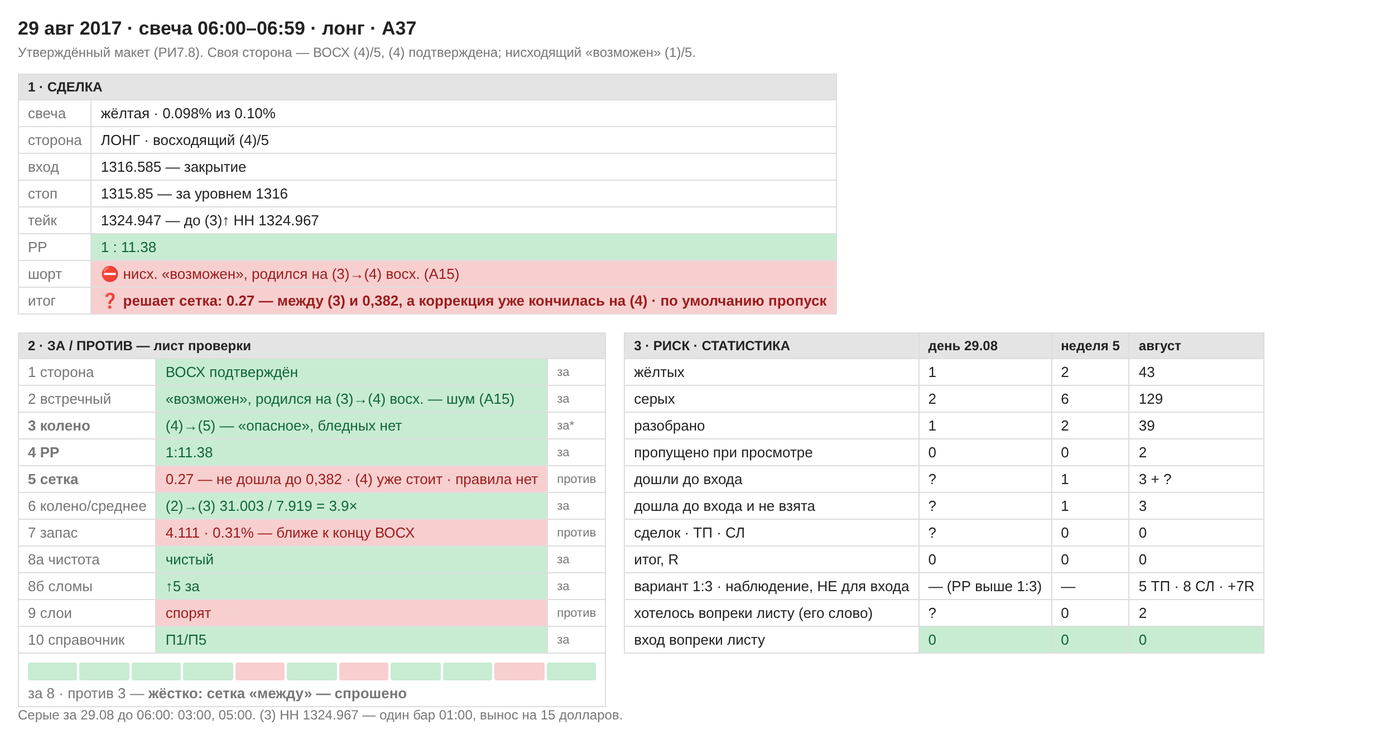
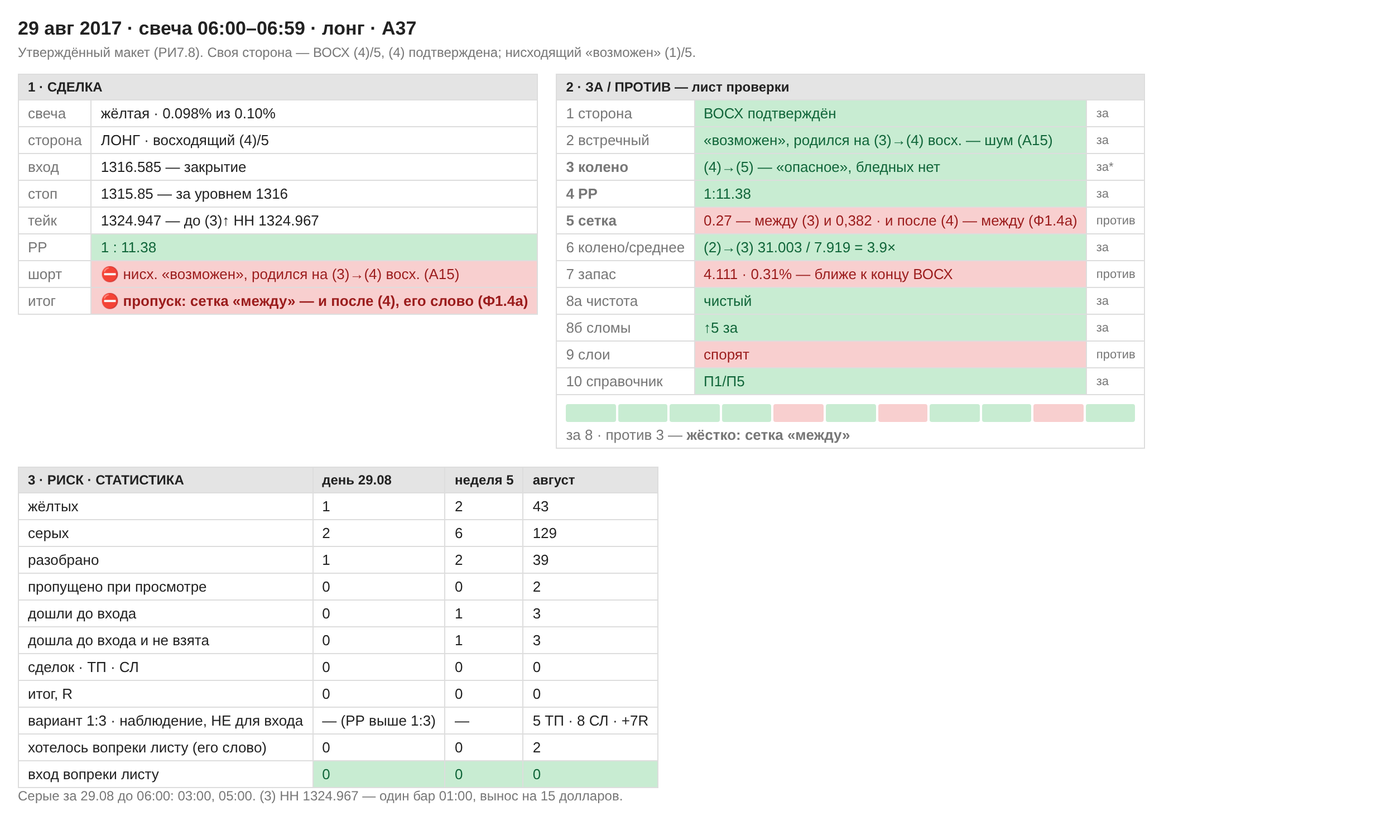
Ф1.4а: «между» действует и после конца коррекции, его слово; А37 пропуск, «хотелось» 0
Claude-Session: https://claude.ai/code/session_01TnuyYeu48W8E686G1zottP

diff --git a/research/out/maket/2017-08-29_0600.html b/research/out/maket/2017-08-29_0600.html
@@ -6,4 +6,4 @@ table{border-collapse:collapse;min-width:360px}td,th{border:1px solid var(--ln);
 th{background:var(--h);font-size:12px}.blk td:first-child{color:var(--mut);white-space:nowrap}
 .g{background:var(--g);color:var(--gt)}.r{background:var(--r);color:var(--rt)}.n{background:var(--n);color:var(--mut)}
 .hard{font-weight:bold}.tag{font-size:11px;color:var(--mut)}
-.bar{display:flex;gap:2px;margin:4px 0}.bar span{flex:1;height:16px;border-radius:2px}</style></head><body><h1>29 авг 2017 · свеча 06:00–06:59 · лонг · А37</h1><p class="sub">Утверждённый макет (РИ7.8). Своя сторона — ВОСХ (4)/5, (4) подтверждена; нисходящий «возможен» (1)/5.</p><div class="wrap"><table class="blk"><tr><th colspan="2">1 · СДЕЛКА</th></tr><tr><td>свеча</td><td class="">жёлтая · 0.098% из 0.10%</td></tr><tr><td>сторона</td><td class="">ЛОНГ · восходящий (4)/5</td></tr><tr><td>вход</td><td class="">1316.585 — закрытие</td></tr><tr><td>стоп</td><td class="">1315.85 — за уровнем 1316</td></tr><tr><td>тейк</td><td class="">1324.947 — до (3)↑ HH 1324.967</td></tr><tr><td>РР</td><td class="g">1 : 11.38</td></tr><tr><td>шорт</td><td class="r">⛔ нисх. «возможен», родился на (3)→(4) восх. (А15)</td></tr><tr><td>итог</td><td class="r hard">❓ решает сетка: 0.27 — между (3) и 0,382, а коррекция уже кончилась на (4) · по умолчанию пропуск</td></tr></table><table class="blk"><tr><th colspan="3">2 · ЗА / ПРОТИВ — лист проверки</th></tr><tr><td class="">1 сторона</td><td class="g">ВОСХ подтверждён</td><td class="tag">за</td></tr><tr><td class="">2 встречный</td><td class="g">«возможен», родился на (3)→(4) восх. — шум (А15)</td><td class="tag">за</td></tr><tr><td class="hard">3 колено</td><td class="g">(4)→(5) — «опасное», бледных нет</td><td class="tag">за*</td></tr><tr><td class="hard">4 РР</td><td class="g">1:11.38</td><td class="tag">за</td></tr><tr><td class="hard">5 сетка</td><td class="r">0.27 — не дошла до 0,382 · (4) уже стоит · правила нет</td><td class="tag">против</td></tr><tr><td class="">6 колено/среднее</td><td class="g">(2)→(3) 31.003 / 7.919 = 3.9×</td><td class="tag">за</td></tr><tr><td class="">7 запас</td><td class="r">4.111 · 0.31% — ближе к концу ВОСХ</td><td class="tag">против</td></tr><tr><td class="">8а чистота</td><td class="g">чистый</td><td class="tag">за</td></tr><tr><td class="">8б сломы</td><td class="g">↑5 за</td><td class="tag">за</td></tr><tr><td class="">9 слои</td><td class="r">спорят</td><td class="tag">против</td></tr><tr><td class="">10 справочник</td><td class="g">П1/П5</td><td class="tag">за</td></tr><tr><td colspan="3"><div class="bar"><span class="g"></span><span class="g"></span><span class="g"></span><span class="g"></span><span class="r"></span><span class="g"></span><span class="r"></span><span class="g"></span><span class="g"></span><span class="r"></span><span class="g"></span></div>за 8 · против 3 — <b>жёстко: сетка «между» — спрошено</b></td></tr></table><table><tr><th>3 · РИСК · СТАТИСТИКА</th><th>день 29.08</th><th>неделя 5</th><th>август</th></tr><tr><td>жёлтых</td><td class="">1</td><td class="">2</td><td class="">43</td></tr><tr><td>серых</td><td class="">2</td><td class="">6</td><td class="">129</td></tr><tr><td>разобрано</td><td class="">1</td><td class="">2</td><td class="">39</td></tr><tr><td>пропущено при просмотре</td><td class="">0</td><td class="">0</td><td class="">2</td></tr><tr><td>дошли до входа</td><td class="">?</td><td class="">1</td><td class="">3 + ?</td></tr><tr><td>дошла до входа и не взята</td><td class="">?</td><td class="">1</td><td class="">3</td></tr><tr><td>сделок · ТП · СЛ</td><td class="">?</td><td class="">0</td><td class="">0</td></tr><tr><td>итог, R</td><td class="">0</td><td class="">0</td><td class="">0</td></tr><tr><td>вариант 1:3 · наблюдение, НЕ для входа</td><td class="">— (РР выше 1:3)</td><td class="">—</td><td class="">5 ТП · 8 СЛ · +7R</td></tr><tr><td>хотелось вопреки листу (его слово)</td><td class="">?</td><td class="">0</td><td class="">2</td></tr><tr><td>вход вопреки листу</td><td class="g">0</td><td class="g">0</td><td class="g">0</td></tr></table></div><p class="sub">Серые за 29.08 до 06:00: 03:00, 05:00. (3) HH 1324.967 — один бар 01:00, вынос на 15 долларов.</p></body></html>
+.bar{display:flex;gap:2px;margin:4px 0}.bar span{flex:1;height:16px;border-radius:2px}</style></head><body><h1>29 авг 2017 · свеча 06:00–06:59 · лонг · А37</h1><p class="sub">Утверждённый макет (РИ7.8). Своя сторона — ВОСХ (4)/5, (4) подтверждена; нисходящий «возможен» (1)/5.</p><div class="wrap"><table class="blk"><tr><th colspan="2">1 · СДЕЛКА</th></tr><tr><td>свеча</td><td class="">жёлтая · 0.098% из 0.10%</td></tr><tr><td>сторона</td><td class="">ЛОНГ · восходящий (4)/5</td></tr><tr><td>вход</td><td class="">1316.585 — закрытие</td></tr><tr><td>стоп</td><td class="">1315.85 — за уровнем 1316</td></tr><tr><td>тейк</td><td class="">1324.947 — до (3)↑ HH 1324.967</td></tr><tr><td>РР</td><td class="g">1 : 11.38</td></tr><tr><td>шорт</td><td class="r">⛔ нисх. «возможен», родился на (3)→(4) восх. (А15)</td></tr><tr><td>итог</td><td class="r hard">⛔ пропуск: сетка «между» — и после (4), его слово (Ф1.4а)</td></tr></table><table class="blk"><tr><th colspan="3">2 · ЗА / ПРОТИВ — лист проверки</th></tr><tr><td class="">1 сторона</td><td class="g">ВОСХ подтверждён</td><td class="tag">за</td></tr><tr><td class="">2 встречный</td><td class="g">«возможен», родился на (3)→(4) восх. — шум (А15)</td><td class="tag">за</td></tr><tr><td class="hard">3 колено</td><td class="g">(4)→(5) — «опасное», бледных нет</td><td class="tag">за*</td></tr><tr><td class="hard">4 РР</td><td class="g">1:11.38</td><td class="tag">за</td></tr><tr><td class="hard">5 сетка</td><td class="r">0.27 — между (3) и 0,382 · и после (4) — между (Ф1.4а)</td><td class="tag">против</td></tr><tr><td class="">6 колено/среднее</td><td class="g">(2)→(3) 31.003 / 7.919 = 3.9×</td><td class="tag">за</td></tr><tr><td class="">7 запас</td><td class="r">4.111 · 0.31% — ближе к концу ВОСХ</td><td class="tag">против</td></tr><tr><td class="">8а чистота</td><td class="g">чистый</td><td class="tag">за</td></tr><tr><td class="">8б сломы</td><td class="g">↑5 за</td><td class="tag">за</td></tr><tr><td class="">9 слои</td><td class="r">спорят</td><td class="tag">против</td></tr><tr><td class="">10 справочник</td><td class="g">П1/П5</td><td class="tag">за</td></tr><tr><td colspan="3"><div class="bar"><span class="g"></span><span class="g"></span><span class="g"></span><span class="g"></span><span class="r"></span><span class="g"></span><span class="r"></span><span class="g"></span><span class="g"></span><span class="r"></span><span class="g"></span></div>за 8 · против 3 — <b>жёстко: сетка «между»</b></td></tr></table><table><tr><th>3 · РИСК · СТАТИСТИКА</th><th>день 29.08</th><th>неделя 5</th><th>август</th></tr><tr><td>жёлтых</td><td class="">1</td><td class="">2</td><td class="">43</td></tr><tr><td>серых</td><td class="">2</td><td class="">6</td><td class="">129</td></tr><tr><td>разобрано</td><td class="">1</td><td class="">2</td><td class="">39</td></tr><tr><td>пропущено при просмотре</td><td class="">0</td><td class="">0</td><td class="">2</td></tr><tr><td>дошли до входа</td><td class="">0</td><td class="">1</td><td class="">3</td></tr><tr><td>дошла до входа и не взята</td><td class="">0</td><td class="">1</td><td class="">3</td></tr><tr><td>сделок · ТП · СЛ</td><td class="">0</td><td class="">0</td><td class="">0</td></tr><tr><td>итог, R</td><td class="">0</td><td class="">0</td><td class="">0</td></tr><tr><td>вариант 1:3 · наблюдение, НЕ для входа</td><td class="">— (РР выше 1:3)</td><td class="">—</td><td class="">5 ТП · 8 СЛ · +7R</td></tr><tr><td>хотелось вопреки листу (его слово)</td><td class="">0</td><td class="">0</td><td class="">2</td></tr><tr><td>вход вопреки листу</td><td class="g">0</td><td class="g">0</td><td class="g">0</td></tr></table></div><p class="sub">Серые за 29.08 до 06:00: 03:00, 05:00. (3) HH 1324.967 — один бар 01:00, вынос на 15 долларов.</p></body></html>

diff --git a/indicator/ПРАВИЛА-ФИБО.md b/indicator/ПРАВИЛА-ФИБО.md
@@ -66,6 +66,7 @@
 | **Ф1.2** | На какой вопрос она отвечает, которого не отвечают счёт и уровень? | 🟡 **07.11.2026, его слово:** «правильная коррекция тренда». Счёт говорит, сколько колен прошло, уровень — чем тренд рубится, а сетка — **нормальной ли глубины откат**. Отсюда и его единственное чёткое правило: за 0,79 коррекция перестаёт быть правильной, и наблюдение снимается |
 | **Ф1.3** | Он сам сказал: **«нет ещё чёткого понимания, как правильно это использовать»** | ⚠ **ЭТО ТОТ ЖЕ ВОПРОС, ЧТО ТС4.2 у свечи.** Записано, чтобы не повторить К5 СЛОМ: механику опишем, а «зачем» всплывёт в конце |
 | **Ф1.4** | ⭐ **ПЕРВОЕ ПРАВИЛО ИСПОЛЬЗОВАНИЯ: «ТРИГГЕРНАЯ СВЕЧА НЕ ДОЛЖНА БЫТЬ В ПОДВЕШЕННОМ СОСТОЯНИИ».** Его слово 11.11.2026, запись А7: «в таблице Фибоначчи пробиты все уровни осталась только зона а тригерная свеча не должна быть в подвещеном состоянии» | ✅ **ЗАКРЫТО 11.11.2026 ЕГО СЛОВОМ: «да, на линии или в зоне, между нельзя».** ❓ Что значит «на линии» для свечи (задевает тенью, телом, закрытием) — не спрашивал, понадобится при внесении. ⚠ **11.11, А9: вопрос встал на живом случае.** Свечи 07:00 и 08:00 3 августа задевают 0,382 (1262.627) тенью, а он говорит «пробит уровень»; до этого вершина (2) 1264.35 уже прошла 0,382. Спрошено, что именно пробито. ✅ **Ответ: «закрытие свечи ушло за линию»** — пробой меряется закрытием, тень линию не пробивает. ⚠ Но 07:00 закрылась под 0,382, а 08:00 над — по разные стороны, а пробитыми названы обе. ❓ Моё прочтение, при котором сходятся обе: линия пробита, если закрытие хоть одной свечи этой коррекции уже уходило за неё (0,382 переходили пять закрытий до его свечей, 0,5 — ни одно). Спрошено. Ниже — как было записано до ответа. 🟡 **НАЗВАНО ЕГО СЛОВОМ, ТОЧНОЕ ЗНАЧЕНИЕ СПРОШЕНО.** Табло в тот момент: `цена в сетке 0.631 · 0.618 … 0.75` — три линии пройдены, до зоны не дошла. Довод ПРОТИВ входа, сделка пропущена при РР 1:7.6. ❓ **Моё прочтение — свеча должна стоять на линии или в зоне, а не между**; слова «опираться» у него нет. Он не назвал ГЛАВНЫЙ уровень (Ф3.3 открыт), но впервые назвал, где свеча стоять НЕ должна. Связь — ТС8.9 |
+| **Ф1.4а** | **«МЕЖДУ» ДЕЙСТВУЕТ И ПОСЛЕ ТОГО, КАК КОРРЕКЦИЯ КОНЧИЛАСЬ.** Его слово 19.11.2026, А37: «да, это между, пропуск» | ✅ **ЗАКРЫТО ЕГО СЛОВОМ.** Когда точка коррекции уже подтверждена (например (4) стоит, сетка `(2)→(3)` ещё висит до (5) по Ф5.1), а цена между вершиной колена и 0,382 — это «между», вход не берётся. Случай: 29 авг 06:00, (4) 1314.057 выше 0,382, свеча на 0.27, РР 1:11.38 — пропуск. Так же я читал А28 и А29 до его слова |
 | **Ф1.5** | ⭐ **ЛИНИЯ ПРОБИТА, ЕСЛИ ЗАКРЫТИЕ УЖЕ УХОДИЛО ЗА НЕЁ — И ОСТАЁТСЯ ПРОБИТОЙ.** Его слово 11.11.2026, запись А9: «да, линия пробита если закрытие уже уходило за неё» и «свеча у 0,5 в этой коррекции ещё считалась бы» | ✅ **ЗАКРЫТО ЕГО СЛОВОМ.** Пробой меряется **закрытием**, тень не пробивает. Меряется **по всей коррекции, а не по одной свече**: если любое закрытие с вершины счёта ушло за линию — линия больше не годится, свеча «на ней» уже не стоит. Каждая линия — **сама по себе**: в случае А9 0,382 пробита пятью закрытиями, а 0,5 цела, и свеча у 0,5 ещё считалась бы. **Чем кончается:** новая сетка на следующей нечётной цифре (Ф5.1) — это новые линии на новых ценах, пробой старых на них не переносится; это по построению, не его слово. Связь — Ф1.4, ТС8.9 |
 
 ---

diff --git a/indicator/ТАБЛО-НА-СВЕЧЕ.md b/indicator/ТАБЛО-НА-СВЕЧЕ.md
@@ -49,7 +49,7 @@
 | 25 авг 05:00 | А34 | скрин | **ВОСХ** / **НИСХ** | (3) / (2) | ↑ чистый, ↓2 ПРОТИВ · ↓ чистый, ↓2 за | спорят | ↓ 0.16% (ближе к концу) | 5.368 / 6.303 (данные) | у ВОСХ колено мелкое (порог 1) | шорт 1:1.78 | пропуск: шорт — РР; лонг — коррекция | шорт — **стоп** в 08:00 (и 1:3 тоже) |
 | 25 авг 12:00 | А35 | скрин | **ВОСХ** / **НИСХ** | (4)·**(5) предв.** / (3)·(4) предв. | ↑ чистый, ↑1 за · ↓ чистый, ↑1 ПРОТИВ | спорят | ↓ 0.03% (ближе к концу) | 1.236 / 5.349 (данные) | у ВОСХ колено мелкое | шорт 1:1.57 · лонг 1:2.16 | пропуск: шорт — РР; лонг — бледная (5), ТС8.13 | шорт до вершины — тейк в 15:00 (не сделка, РР 1:1.57) · вариант 1:3 — стоп ~16:10 |
 | 28 авг 05:00 | А36 | скрин | возможен / **НИСХ** | (1) / (2) | ↑ чистый, ↑1 за · ↓ чистый, ↑1 ПРОТИВ | согласны (вверх) | ↓ 0.13% (ближе к концу) | 18.956 / 6.765 | НИСХ `(0)→(1)`, отменена — вышла за 0,79 | **шорт 1:22.7 ✅** | ⭐ **дошла до входа**, 7 : 4 · его решение — **пропуск: «цена убрала сетку Ф»** | шорт — **стоп** в 08:00 (макс. 1295.508), пропуск сберёг 1R |
-| 29 авг 06:00 | А37 | скрин | **ВОСХ** / возможен | **(4)** / (1) | ↑ чистый, ↑5 за · ↓ чистый, ↑5 ПРОТИВ | спорят | 0.31% · ближе к концу ВОСХ | 31.003 / 7.919 | ВОСХ `(2)→(3)`, 0.27 — между, но (4) уже стоит — ❓ правила нет | **лонг 1:11.38** | ❓ по умолчанию пропуск — сетка | — идёт |
+| 29 авг 06:00 | А37 | скрин | **ВОСХ** / возможен | **(4)** / (1) | ↑ чистый, ↑5 за · ↓ чистый, ↑5 ПРОТИВ | спорят | 0.31% · ближе к концу ВОСХ | 31.003 / 7.919 | ВОСХ `(2)→(3)`, 0.27 — между при стоящей (4) — Ф1.4а, его слово | **лонг 1:11.38** | **пропуск: сетка «между»** | — идёт |
 
 ⚠ **8 авг 03:00 — табло на бар позади.** На закрытии свечи было уже
 **(2)** и **ВОСХ**; на графике он видел (1) и «возможен» — З77, починено в

diff --git a/indicator/КАК-ТОРГУЮ.md b/indicator/КАК-ТОРГУЮ.md
@@ -63,7 +63,7 @@
 | **А34** | 19.11.2026 | **25 августа 05:00** — скрин без слов | пропуск: шорт на `(2)→(3)` нисх., РР 1:1.78 до (1)↓ HL 1284.881 · лонг — восх. на (3), коррекция · первый скрин с его порогом колена 1 · В36: шорт 1:3, тейк 1283.918 |
 | **А35** | 19.11.2026 | **25 августа 12:00** — скрин без слов | пропуск обе стороны: шорт — РР 1:1.57 до (3)↓ HL 1285.962, бледная (4) с оговоркой · лонг — бледная **(5)** восх., ТС8.13 · одна бледная 1288.624 на двоих · В36: шорт 1:3, тейк 1284.226 |
 | **А36** | 19.11.2026 | **28 августа 05:00** — скрин, «переходим на 28 августа» | ⭐ **третья «дошла до входа»**: шорт на `(2)→(3)` нисх., РР **1:22.7** до (1)↓ LL 1276.196 · жёсткие пройдены, мягкие 7 : 4 · **его решение — пропуск: «цена убрала сетку Ф»** |
-| **А37** | 19.11.2026 | **29 августа 06:00** — скрин без слов | лонг на `(4)→(5)`, РР **1:11.38** до (3) HH 1324.967 · решает сетка (2)→(3): 0.27 — «между», но коррекция уже кончилась на (4) — ❓ **правила нет**, по умолчанию пропуск |
+| **А37** | 19.11.2026 | **29 августа 06:00** — скрин без слов | лонг на `(4)→(5)`, РР **1:11.38** до (3) HH 1324.967 · решает сетка (2)→(3): 0.27 — «между», коррекция уже кончилась на (4) · ✅ **его слово «да, это между, пропуск» — Ф1.4а** |
 
 ---
 
@@ -4529,3 +4529,11 @@ HH 1324.967** — один бар 29 авг 01:00, вынос с 1310 на 15 д
 **Вариант 1:3 не пишется:** РР выше 1:3.
 
 **Макет:** `research/out/maket/2017-08-29_0600.png`.
+
+**Ответ, 19.11.2026:** «1. да, это между, пропуск 2. нет, желания не было».
+
+| | |
+|---|---|
+| пункт 5 | ✅ **правило есть — `ПРАВИЛА-ФИБО.md` Ф1.4а:** «между» действует и после того, как коррекция кончилась. Пункт 5 жёсткий и здесь |
+| вердикт | **пропуск**, совпал. До входа не дошла |
+| «хотелось вопреки листу» | **0** |
